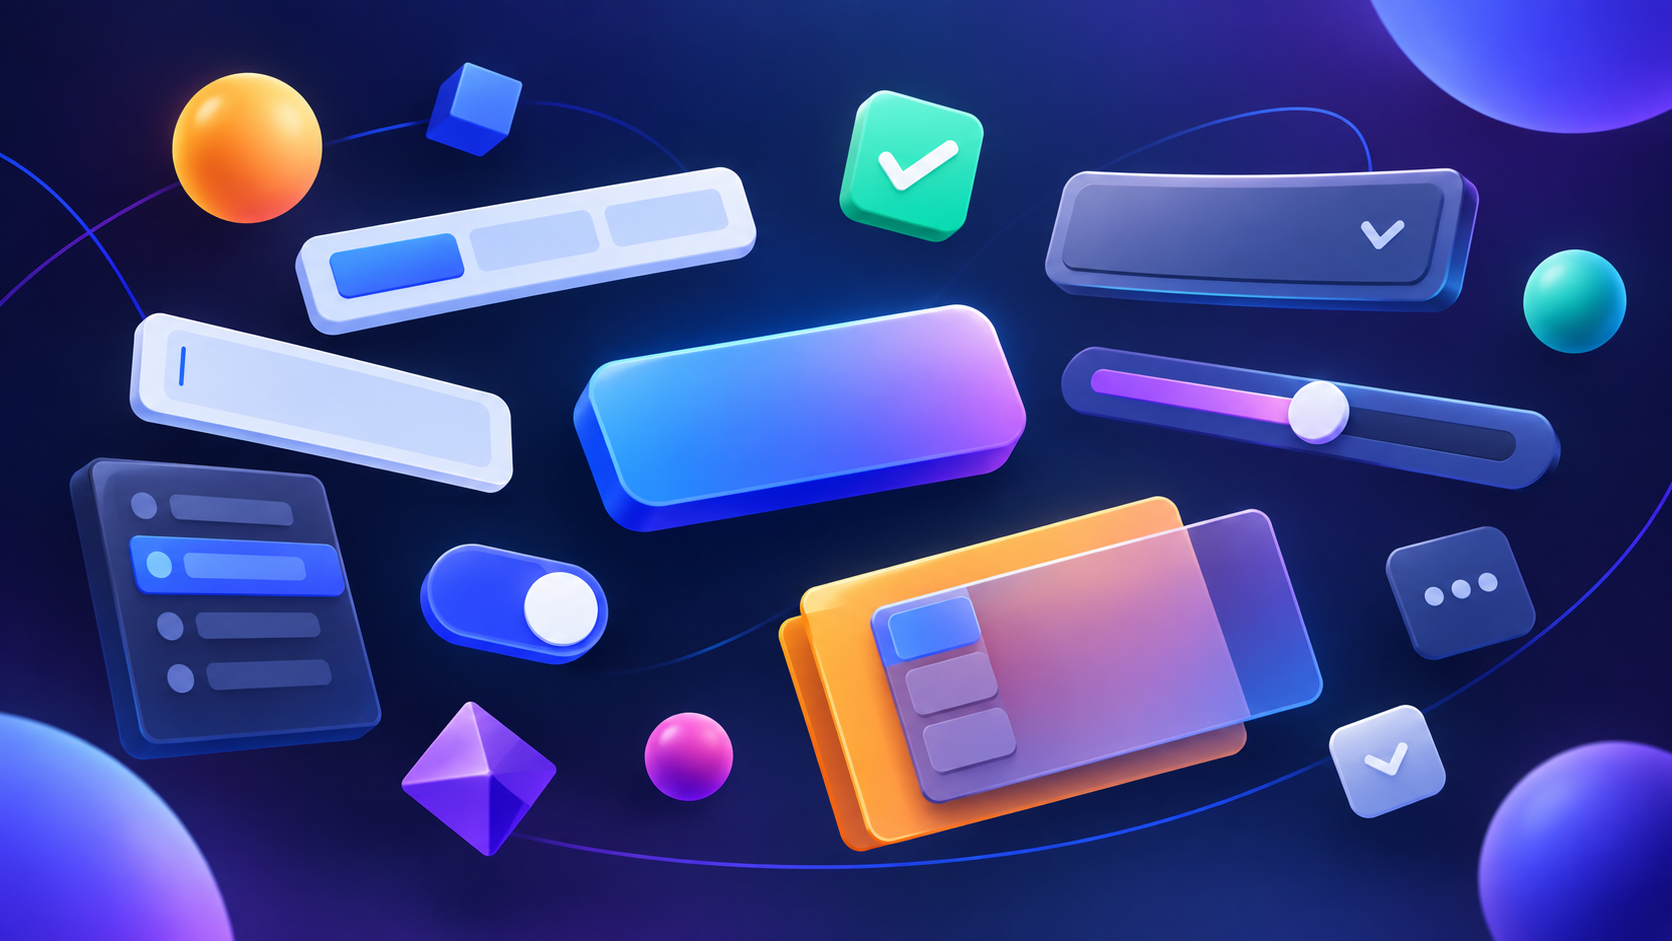
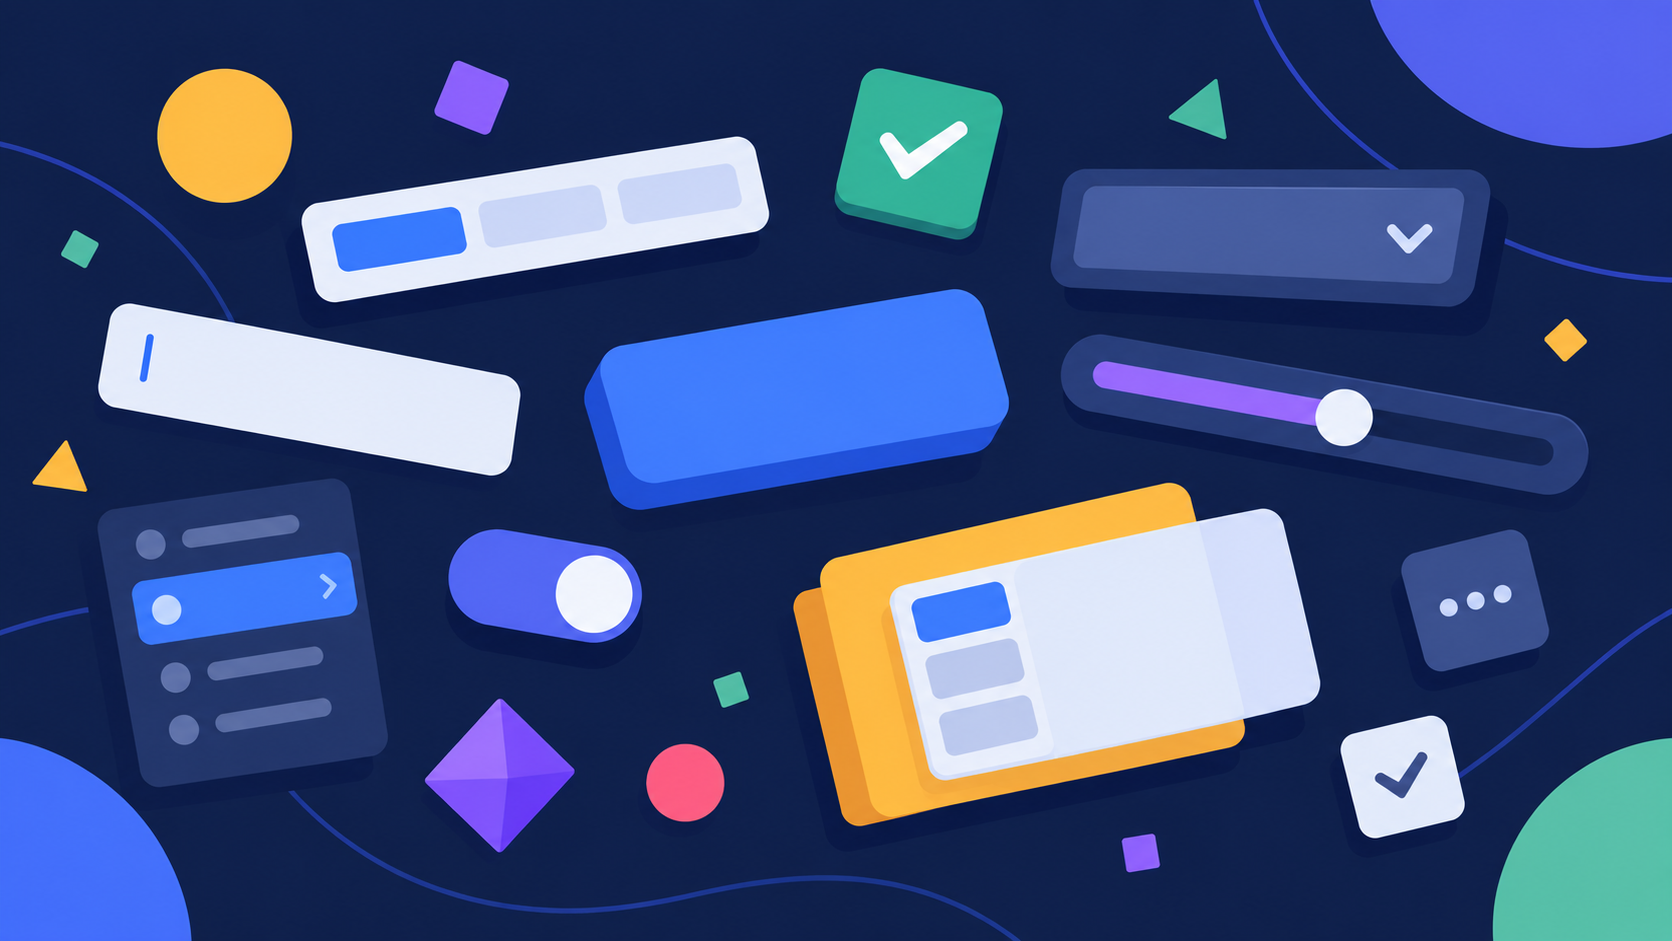
Finalized the pages for SalDropDownList & SalDropDownEdit.

diff --git a/_CsWinFormsControls/SalDropDownEdit.md b/_CsWinFormsControls/SalDropDownEdit.md
@@ -55,7 +55,9 @@ The control combines an internal editable ComboBox with a custom Button, allowin
     - Mouse-down background color
     - Optional separator on mouse-over
 
-- The button is custom painted and uses a chevron character from the `Segoe Fluent Icons` font for the drop-down arrow.
+- The button is custom painted and uses a chevron character from the `Segoe Fluent Icons` font for the drop-down arrow
+
+- The highlight color of drop-down items can be customized via the `DropDownItemHighlightColor` property.
 
 ## Right-to-Left Support
 
@@ -78,9 +80,11 @@ The control combines an internal editable ComboBox with a custom Button, allowin
 
 ## Events
 
-- The control forwards important ComboBox events through the shared base class, including `DropDown`, `DropDownClosed`, `SelectedIndexChanged`, `SelectionChangeCommitted`, and `TextUpdate`.
+- The control forwards important ComboBox events through the shared base class, including `DropDown`, `DropDownClosed`, `SelectedIndexChanged`, `SelectedValueChanged`, `SelectionChangeCommitted`, and `TextUpdate`.
 
 - It also forwards the internal ComboBox's `TextChanged` event through the normal `Control.OnTextChanged` mechanism.
+
+- There's an additional `HighlightedItemChanged` event which occurs when the `SelectedItem` property changes only if the selection is not commited. This is useful for things like live previews for example.
 
 # Technical Implementation
 
@@ -144,36 +148,6 @@ The control combines an internal editable ComboBox with a custom Button, allowin
 
 - The base class is then responsible for disposing its internal controls and drawing resources.
 
-# Notable Engineering Details
-
-## Editable Behavior Remains Native to ComboBox
-
-Rather than reproducing text editing, selection, and auto-completion logic, the control exposes those capabilities directly from its internal ComboBox.
-
-This keeps the custom implementation focused on the visual shell and integration layer while retaining the framework's existing editable ComboBox behavior.
-
-## Separate Button as the Drop-Down Interaction Surface
-
-The drop-down button is an independent child control rather than part of the ComboBox's standard visual presentation.
-
-This provides direct control over its width, hover and pressed backgrounds, arrow rendering, border behavior, and RTL positioning.
-
-## Custom ComboBox Region
-
-The internal ComboBox's `Region` is recalculated to accommodate the custom button and surrounding control geometry. This allows the editable area to coexist with the separately docked button without requiring a completely custom text-editing implementation.
-
-## Optional Hover Separator
-
-`ShowSeparatorOnMouseOver` changes both the button width and its painting behavior. When enabled, the button becomes one pixel wider and draws a separator line only while the pointer is over the button.
-
-The dimension logic is also reapplied during `AdjustDimensions`, ensuring the configured width is restored when the control is recalculated.
-
-## Shared Drop-Down Infrastructure
-
-The editable control reuses `SalDropDownBase` for the functionality common to the drop-down control family: ComboBox property forwarding, event forwarding, owner-drawn items, variable item heights, purpose-specific collections, and RTL-aware item rendering.
-
-`SalDropDownEdit` therefore concentrates its implementation specifically on the editable control face and text-entry-specific behavior.
-
 # Summary
 
 `SalDropDownEdit` is a composite WinForms control that combines an editable `ComboBox` with a separately controlled drop-down button.
@@ -181,6 +155,32 @@ The editable control reuses `SalDropDownBase` for the functionality common to th
 Its implementation preserves native ComboBox functionality for text entry, selection, data binding, searching, and auto-completion while adding custom rendering for the button, border, arrow, hover behavior, and RTL layout.
 
 The control's main technical distinction is the separation between the editable ComboBox functionality and the custom visual drop-down surface, with the shared `SalDropDownBase` providing the common infrastructure for item rendering, sizing, purpose-specific lists, and event forwarding.
+
+# Screenshots
+
+<div class="screenshots-grid">
+  <figure>
+    <img src="../../assets/images/screenshots/CsWinFormsControls/SalDropDownEdit/Countries.png">
+  
+    <figcaption>Using the control as a country selector</figcaption>
+  </figure>
+
+  <figure>
+    <img src="../../assets/images/screenshots/CsWinFormsControls/SalDropDownEdit/Fonts.gif">
+  
+    <figcaption>Using the control as a font selector with live preview</figcaption>
+  </figure>
+</div>
+
+<div class="lightbox" id="lightbox">
+  <span class="close">&times;</span>
+  <button class="prev">&#10094;</button>
+  <img class="lightbox-image" src="" alt="">
+  <button class="next">&#10095;</button>
+  <div class="lightbox-caption"></div>
+</div>
+
+<script src="../../assets/js/screenshot-image-overlay.js"></script>
 
 # How to Use
 

diff --git a/_CsWinFormsControls/SalDropDownList.md b/_CsWinFormsControls/SalDropDownList.md
@@ -30,7 +30,7 @@ The control combines an internal `ComboBox` with a custom-drawn `Button`, allowi
 # Features and Functionality
 
 ## ComboBox-Compatible Data and Selection
-- The control exposes the main functionality of its internal `ComboBox`, including `Items`, `DataSource`, `DisplayMember`, `ValueMember`, `SelectedIndex`, `SelectedItem`, `Sorted`,`Text`, `DropDownWidth`, `DropDownHeight`, `MaxDropDownItems`, `FormattingEnabled`, `FormatString`,and `FormatInfo`.
+- The control exposes the main functionality of its internal `ComboBox`, including `Items`, `DataSource`, `DisplayMember`, `ValueMember`, `SelectedIndex`, `SelectedItem`, `SelectedValue`, `Sorted`,`Text`, `DropDownWidth`, `DropDownHeight`, `MaxDropDownItems`, `FormattingEnabled`, `FormatString`,and `FormatInfo`.
 
 - It also exposes searching through `FindString` and `FindStringExact`, item-height retrieval, display-text retrieval, and `BeginUpdate`/`EndUpdate` for controlling updates while modifying the item collection.
 
@@ -47,6 +47,8 @@ The control combines an internal `ComboBox` with a custom-drawn `Button`, allowi
     - Configurable drop-down item height
 
 - The visible button is custom painted to draw the border and a chevron-style drop-down arrow using the `Segoe Fluent Icons` font.
+
+- The highlight color of drop-down items can be customized via the `DropDownItemHighlightColor` property.
 
 ## Placeholder Behavior
 
@@ -81,9 +83,11 @@ The control combines an internal `ComboBox` with a custom-drawn `Button`, allowi
 
 ## Events
 
-- The custom control exposes events corresponding to important ComboBox operations, including `DropDown`, `DropDownClosed`, `SelectedIndexChanged`, `SelectionChangeCommitted`, and `TextUpdate`.
+- The control forwards important ComboBox events through the shared base class, including `DropDown`, `DropDownClosed`, `SelectedIndexChanged`, `SelectedValueChanged`, `SelectionChangeCommitted`, and `TextUpdate`.
 
-- These events are forwarded from the internal ComboBox through virtual event-raiser methods in the base class.
+- It also forwards the internal ComboBox's `TextChanged` event through the normal `Control.OnTextChanged` mechanism.
+
+- There's an additional `HighlightedItemChanged` event which occurs when the `SelectedItem` property changes only if the selection is not commited. This is useful for things like live previews for example.
 
 # Technical Implementation
 
@@ -162,6 +166,32 @@ The control combines an internal `ComboBox` with a custom-drawn `Button`, allowi
 `SalDropDownList` is a composite WinForms control that extends the standard ComboBox model rather than replacing it. Its implementation separates the underlying list and data-binding behavior from a custom-painted control face, while an abstract base class centralizes common drop-down functionality such as owner-drawn rendering, variable item heights, purpose-specific item population, RTL layout, and event forwarding.
 
 The most distinctive parts of the implementation are its owner-drawn font and country-list modes, custom control-face rendering, and the mechanism used to retain the ComboBox's default item sizing while supporting variable-height custom rendering.
+
+# Screenshots
+
+<div class="screenshots-grid">
+  <figure>
+    <img src="../../assets/images/screenshots/CsWinFormsControls/SalDropDownList/Countries.png">
+  
+    <figcaption>Using the control as a country selector</figcaption>
+  </figure>
+
+  <figure>
+    <img src="../../assets/images/screenshots/CsWinFormsControls/SalDropDownList/Fonts.gif">
+  
+    <figcaption>Using the control as a font selector with live preview</figcaption>
+  </figure>
+</div>
+
+<div class="lightbox" id="lightbox">
+  <span class="close">&times;</span>
+  <button class="prev">&#10094;</button>
+  <img class="lightbox-image" src="" alt="">
+  <button class="next">&#10095;</button>
+  <div class="lightbox-caption"></div>
+</div>
+
+<script src="../../assets/js/screenshot-image-overlay.js"></script>
 
 # How to Use
 
